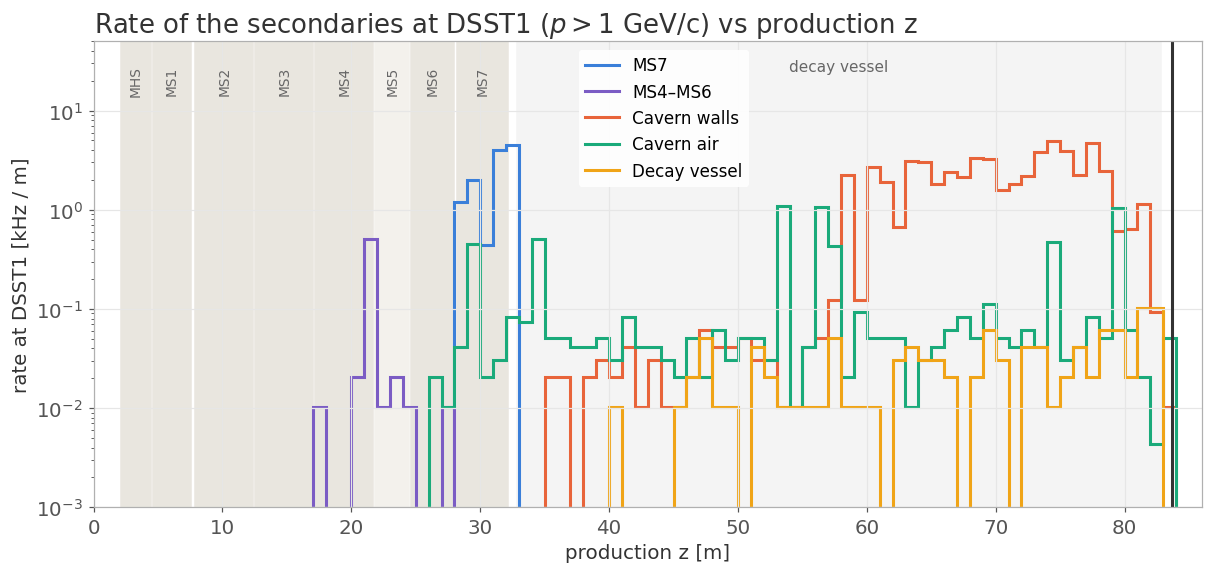
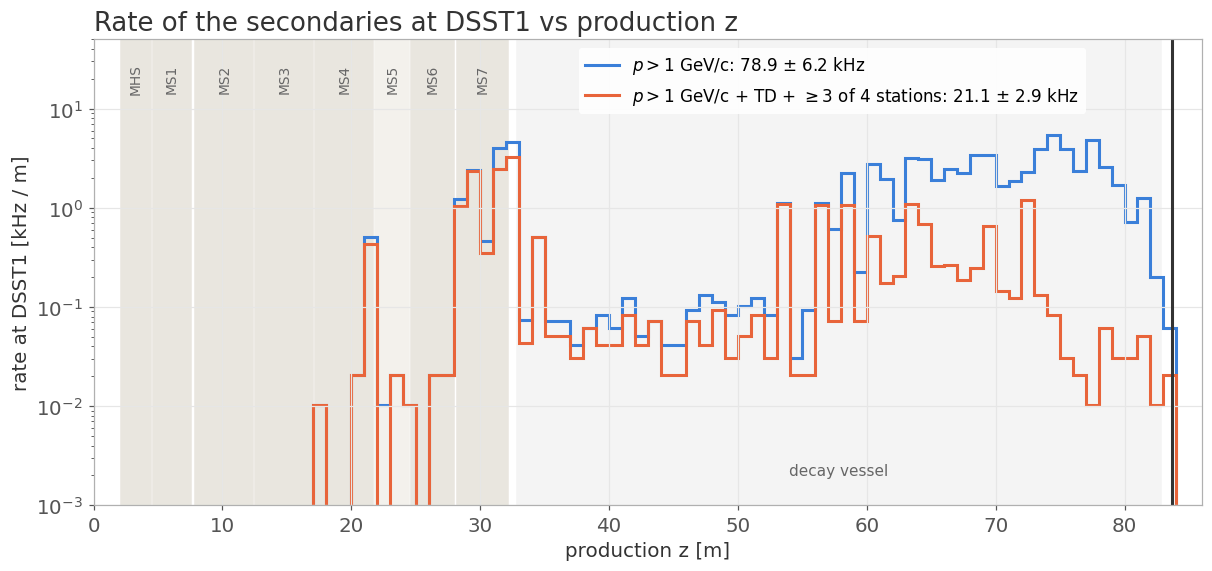
fairship_noSBT: secondaries with TD + >=3 stations, two-selection rate-vs-z plot

diff --git a/veto/docs/investigations_2026-11-23/fairship_noSBT/scripts/secondaries_good.py b/veto/docs/investigations_2026-11-23/fairship_noSBT/scripts/secondaries_good.py
@@ -1,0 +1,41 @@
+#!/usr/bin/env python3
+"""Secondaries at DSST1 (not input muons, charged, pz>0) with the note's track requirement:
+p > 1 GeV/c + real FairShip TD hit + >= 3 of the 4 straw stations inside |x|<2, |y|<3 (RK4 in our field map from the
+state at the SST scoring plane, veto lib good_track_acceptance with n_min=3). Also all 4 stations for reference.
+Writes results/secondaries_good.npz (row index, n_stations) and results/secondaries_good.txt (table by origin/species)."""
+import os, sys, pickle
+import numpy as np
+H = os.path.join(os.path.dirname(os.path.abspath(__file__)), '..')
+W = "/disk/gfs_lhcb/gfrise/Study_on_Veto_System/Optimization_Veto_System/.claude/worktrees/nov4-source/veto"
+sys.path[:0] = [W + "/bin", W + "/lib"]
+import _bootstrap  # noqa
+from veto import spectrometer as sp  # noqa
+F = 411947589 / (3086 * 1e5)
+O = {k: np.asarray(v) for k, v in pickle.load(open(f'{H}/data/origin_sst_noSBT_merged.pkl', 'rb')).items()
+     if k not in ('n_files', 'n_files_from_restarts', 'cluster')}
+w = O['w'].astype(float) * F; pdg = O['pdg'].astype(int); a = np.abs(pdg)
+P = np.stack([O['px'], O['py'], O['pz']], 1).astype(float); p = np.linalg.norm(P, axis=1)
+sec = (P[:, 2] > 0) & (O['proc'] != 'Transportation') & np.isin(a, [11, 13, 211, 2212, 321])
+i = np.nonzero(sec & (p > 1))[0]
+pos = np.stack([O['x'][i], O['y'][i], O['z'][i] - 2.14], 1).astype(float)
+q = np.where(np.isin(pdg[i], [11, 13]), -np.sign(pdg[i]), np.sign(pdg[i])).astype(float)
+_, nst, _, _ = sp.good_track_acceptance(pos, P[i], q, n_min=3)
+td = O['td'][i].astype(bool)
+np.savez(f'{H}/results/secondaries_good.npz', idx=i, nst=nst, td=td)
+mat, vol = O['mat0'][i], O['vol0'][i]
+G = {'MS7': (mat == 'iron') & (vol == 'Magn7'), 'MS4-MS6': (mat == 'iron') & (vol != 'Magn7'),
+     'Cavern walls': mat == 'Concrete', 'Cavern air': mat == 'air',
+     'Decay vessel': np.isin(mat, ['helium', 'mylar_linerHe'])}
+G['other'] = ~np.any(list(G.values()), axis=0)
+S = {'mu (13)': a[i] == 13, 'e (11)': a[i] == 11, 'pi (211)': a[i] == 211, 'p (2212)': a[i] == 2212, 'K (321)': a[i] == 321}
+ww = w[i]
+out = []
+for lab, cut in [('p>1', np.ones(len(i), bool)), ('p>1 + TD', td), ('p>1 + TD + >=3 st', td & (nst >= 3)),
+                 ('p>1 + TD + 4 st', td & (nst == 4))]:
+    out.append(f'== {lab} [kHz]   ' + '  '.join(f'{k:>9s}' for k in S) + '      total     MC')
+    for g, gm in G.items():
+        out.append(f'  {g:14s} ' + '  '.join(f'{ww[gm & sm & cut].sum() / 1e3:9.3f}' for sm in S.values()) +
+                   f'  {ww[gm & cut].sum() / 1e3:9.2f} {(gm & cut).sum():6d}')
+    t = cut
+    out.append(f'  {"total":14s} {ww[t].sum() / 1e3:.2f} ± {np.sqrt((ww[t] ** 2).sum()) / 1e3:.2f} kHz ({t.sum()} MC)')
+open(f'{H}/results/secondaries_good.txt', 'w').write('\n'.join(out) + '\n'); print('\n'.join(out))

diff --git a/veto/docs/investigations_2026-11-23/fairship_noSBT/scripts/plot_secondaries.py b/veto/docs/investigations_2026-11-23/fairship_noSBT/scripts/plot_secondaries.py
@@ -85,18 +85,20 @@ fig.savefig(f'{OUT}/secondaries_origin_map.png', dpi=110, bbox_inches='tight'); 
 # rate vs production z: separate figure
 fig, axz = plt.subplots(figsize=(13, 5.5))
 bins = np.arange(0, 86, 1.0)
-for lab, m, col, mk in CAT:
-    i = sel & m
-    h, _ = np.histogram(z0[i], bins, weights=w[i] / 1e3)
-    axz.stairs(h, bins, color=col, lw=2, label=lab)
+G = np.load(f'{H}/results/secondaries_good.npz')   # from scripts/secondaries_good.py
+good = np.zeros(len(w), bool); good[G['idx']] = G['td'] & (G['nst'] >= 3)
+for lab, m, col in [('$p>1$ GeV/c', sel, '#3a7fd9'), ('$p>1$ GeV/c + TD + $\\geq$3 of 4 stations', sel & good, '#e8643a')]:
+    h, _ = np.histogram(z0[m], bins, weights=w[m] / 1e3)
+    axz.stairs(h, bins, color=col, lw=2,
+               label=f'{lab}: {w[m].sum() / 1e3:.1f} ± {np.sqrt((w[m] ** 2).sum()) / 1e3:.1f} kHz')
 axz.set_yscale('log'); axz.set_ylim(1e-3, 50); axz.set_xlim(0, 86)
 for n, za, zb in mags:
     axz.axvspan(za, zb, color='#e9e6df' if n != 'MS5' else '#f3f1ec', zorder=0)
     axz.text(0.5 * (za + zb), 20, n, rotation=90, fontsize=9, color='#666', ha='center', va='center')
-axz.axvspan(32.85, 82.85, color='#f4f4f4', zorder=0); axz.text(57.85, 25, 'decay vessel', ha='center', fontsize=10, color='#666')
+axz.axvspan(32.85, 82.85, color='#f4f4f4', zorder=0); axz.text(57.85, 2e-3, 'decay vessel', ha='center', fontsize=10, color='#666')
 axz.axvline(83.71, color='#333', lw=2)
 axz.set_xlabel('production z [m]'); axz.set_ylabel('rate at DSST1 [kHz / m]')
-axz.set_title('Rate of the secondaries at DSST1 ($p>1$ GeV/c) vs production z')
+axz.set_title('Rate of the secondaries at DSST1 vs production z')
 axz.grid(color='#e6e6e6', lw=0.8); axz.legend(frameon=True, framealpha=0.9, edgecolor='none', fontsize=11, loc='upper left', bbox_to_anchor=(0.43, 1.0))
 fig.savefig(f'{OUT}/secondaries_origin_z.png', dpi=110, bbox_inches='tight'); plt.close(fig)
 

diff --git a/veto/docs/investigations_2026-11-23/fairship_noSBT/README.md b/veto/docs/investigations_2026-11-23/fairship_noSBT/README.md
@@ -292,3 +292,4 @@ Same good-track filter on both (p > 1, straw aperture at all 4 stations + TD, fi
   `fig:secondaries_DSST1` in Subsection `sub:secondaries`.
 - **2026-11-23, archived in git:** Veto_System repo, branch `veto-fairship-nosbt` (worktree `.claude/worktrees/fairship-nosbt`), `veto/docs/investigations_2026-11-23/fairship_noSBT/` (no `data/`, no `ubt_plane2_mu.npz`).
 - **2026-11-23:** origin figure split for the note: `secondaries_origin_map.png` (top/side views) + `secondaries_origin_z.png` (rate vs production z); bottom grey note removed.
+- **2026-11-23, good-track cut for the note:** `scripts/secondaries_good.py` → `results/secondaries_good.{npz,txt}`: secondaries p>1 + real TD hit + ≥3 of 4 straw stations (field map, n_min=3): 21.09 ± 2.95 kHz (MS7 8.87, walls 6.83, air 4.30, vessel 0.56, MS4–6 0.50); TD only 21.43; 4/4 st 21.05 (station cut irrelevant once TD hit). Note Table: column "+TD + 3/4 DSST", PDG codes; rate-vs-z plot = 2 colours (p>1, p>1+TD+3/4).
